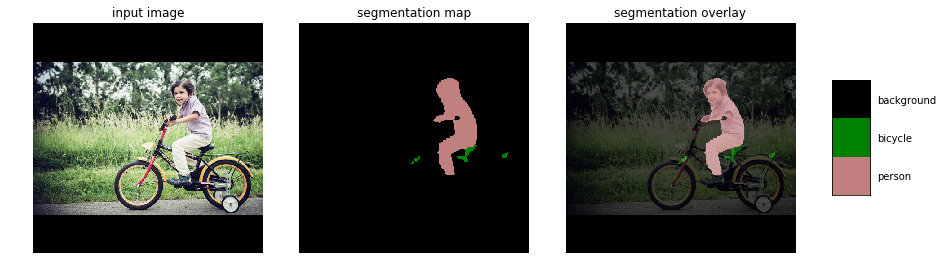
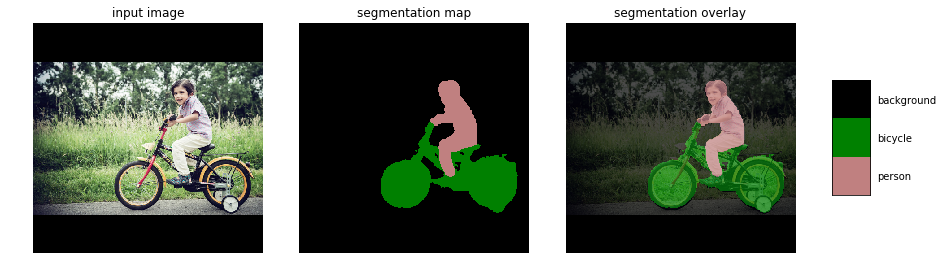
added O(utput)S(tride) argument. updated results with OS = 8. Updated README

diff --git a/model.py b/model.py
@@ -175,7 +175,22 @@ def xception_block(inputs, depth_list, prefix, skip_connection_type, stride,
         return outputs
 
 
-def Deeplabv3(input_shape, num_classes=21, last_activation=None):
+def Deeplabv3(input_shape, num_classes=21, last_activation=None, OS=16):
+    """Deeplab v3 model. 
+        Args:
+            input_shape: shape of input image. format CHUNNELS_LAST
+            num_classes: number of desired classes. If != 21, last layer is initialized randomly
+            last_activation: flag to use sigmoid activation after models logits
+            OS: determines input_shape/feature_extractor_output ratio. One of {8,16}
+    """
+    if OS == 8:
+        entry_block3_stride = 1
+        exit_block_rates = (2, 4)
+        atrous_rates = (12, 24, 36)
+    else:
+        entry_block3_stride = 2
+        exit_block_rates = (1, 1)
+        atrous_rates = (6, 12, 18)
 
     img_input = Input(input_shape)
     x = Conv2D(32, (3, 3), strides=(2, 2),
@@ -193,8 +208,9 @@ def Deeplabv3(input_shape, num_classes=21, last_activation=None):
     x, skip1 = xception_block(x, [256, 256, 256], 'entry_flow_block2',
                               skip_connection_type='conv', stride=2,
                               depth_activation=False, return_skip=True)
+
     x = xception_block(x, [728, 728, 728], 'entry_flow_block3',
-                       skip_connection_type='conv', stride=2,
+                       skip_connection_type='conv', stride=entry_block3_stride,
                        depth_activation=False)
     for i in range(16):
         x = xception_block(x, [728, 728, 728], 'middle_flow_unit_{}'.format(i + 1),
@@ -202,30 +218,31 @@ def Deeplabv3(input_shape, num_classes=21, last_activation=None):
                            depth_activation=False)
 
     x = xception_block(x, [728, 1024, 1024], 'exit_flow_block1',
-                       skip_connection_type='conv', stride=1,
+                       skip_connection_type='conv', stride=1, rate=exit_block_rates[0],
                        depth_activation=False)
     x = xception_block(x, [1536, 1536, 2048], 'exit_flow_block2',
-                       skip_connection_type='none', stride=1,
+                       skip_connection_type='none', stride=1, rate=exit_block_rates[1],
                        depth_activation=True)
 
     # end of feature extractor
     # branching for Atrous Spatial Pyramid Pooling
 
-    # How to use BN properly: freeze all layers up to 358, use the biggest possible batch_size
-    # In the article they said many times that it is very important
-
     # simple 1x1
     b0 = Conv2D(256, (1, 1), padding='same', use_bias=False, name='aspp0')(x)
     b0 = BatchNormalization(name='aspp0_BN')(b0)
     b0 = Activation('relu', name='aspp0_activation')(b0)
-    # rate = 6
-    b1 = SepConv_BN(x, 256, 'aspp1', rate=6, depth_activation=True)
-    # hole = 12
-    b2 = SepConv_BN(x, 256, 'aspp2', rate=12, depth_activation=True)
-    # hole = 18
-    b3 = SepConv_BN(x, 256, 'aspp3', rate=18, depth_activation=True)
+
+    # rate = 6 (12)
+    b1 = SepConv_BN(x, 256, 'aspp1',
+                    rate=atrous_rates[0], depth_activation=True)
+    # hole = 12 (24)
+    b2 = SepConv_BN(x, 256, 'aspp2',
+                    rate=atrous_rates[1], depth_activation=True)
+    # hole = 18 (36)
+    b3 = SepConv_BN(x, 256, 'aspp3',
+                    rate=atrous_rates[2], depth_activation=True)
     # Image Feature branch
-    out_shape = int(np.ceil(input_shape[0] / 16))
+    out_shape = int(input_shape[0] / OS)  # np.ceil
     b4 = AveragePooling2D(pool_size=(out_shape, out_shape))(x)
     b4 = Conv2D(256, (1, 1), padding='same',
                 use_bias=False, name='image_pooling')(b4)
@@ -240,13 +257,14 @@ def Deeplabv3(input_shape, num_classes=21, last_activation=None):
     x = BatchNormalization(name='concat_projection_BN')(x)
     x = Activation('relu')(x)
     # I'm not sure if this is the correct droprate
-    x = Dropout(0.5)(x)
+    x = Dropout(0.9)(x)
 
     # DeepLab v.3+ decoder
 
     # Feature projection
-    # x4 block
-    x = BilinearUpsampling((4, 4))(x)
+    # x4 (x2) block
+    x = BilinearUpsampling(output_size=(
+        int(input_shape[0] / 4), int(input_shape[1] / 4)))(x)
     dec_skip1 = Conv2D(48, (1, 1), padding='same', use_bias=False,
                        activation='relu', name='feature_projection0')(skip1)
     dec_skip1 = BatchNormalization(name='feature_projection0_BN')(dec_skip1)

diff --git a/README.md b/README.md
@@ -8,22 +8,22 @@ Segmentation results of original TF model. __Output Stride = 8__
     <img src="imgs/seg_results2.png" width=600></br>
     <img src="imgs/seg_results3.png" width=600></br>
 </p>
+
 This result is obtained as an argmax applied to logits at exit layer   
-Segmentation results of this repo model with loaded weights.  
+Segmentation results of this repo model with loaded weights and __OS = 8__  
+Results are simular to the TF model  
+<p align="center">
+    <img src="imgs/my_seg_results1_OS8.png" width=600></br>
+    <img src="imgs/my_seg_results2_OS8.png" width=600></br>
+    <img src="imgs/my_seg_results3_OS8.png" width=600></br>
+</p>
 
-This results were obtained with Output Stride = 16
-
+ 
+Segmentation results of this repo model with loaded weights and __OS = 16__  
 <p align="center">
     <img src="imgs/my_seg_results1.png" width=600></br>
     <img src="imgs/my_seg_results2.png" width=600></br>
     <img src="imgs/my_seg_results3.png" width=600></br>
 </p>
 
-Segmentation results of this repo model with OS = 8  
-I changed dilation (atrous) rate in ASPP branches to [12,24,36] and changed stride in entry_block_1 to 1 
-Results qualiy is much worse than original  
-<p align="center">
-    <img src="imgs/my_seg_results1_OS8.png" width=600></br>
-    <img src="imgs/my_seg_results2_OS8.png" width=600></br>
-    <img src="imgs/my_seg_results3_OS8.png" width=600></br>
-</p>
+
